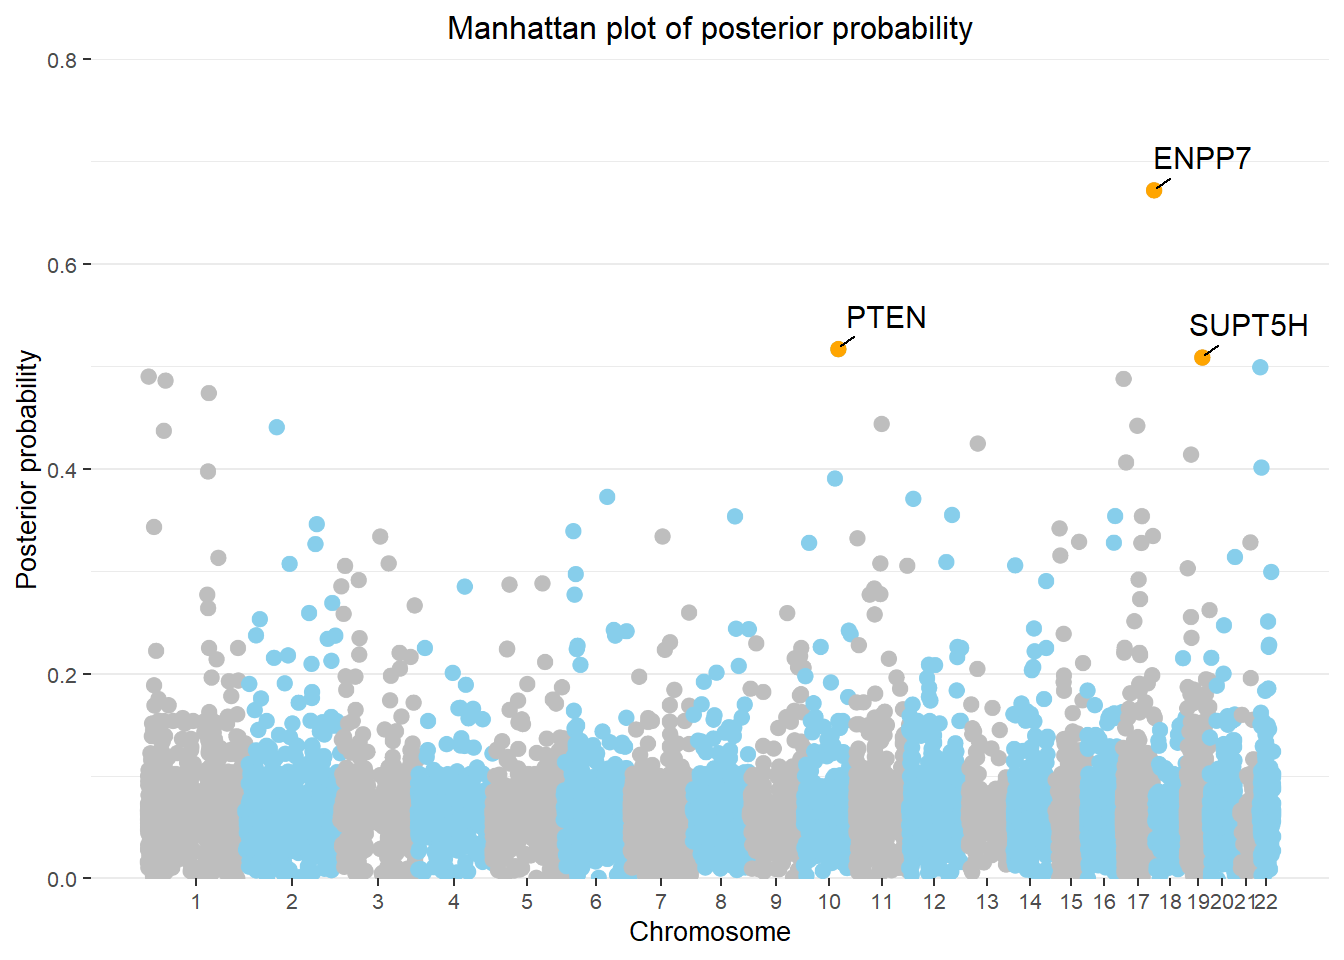
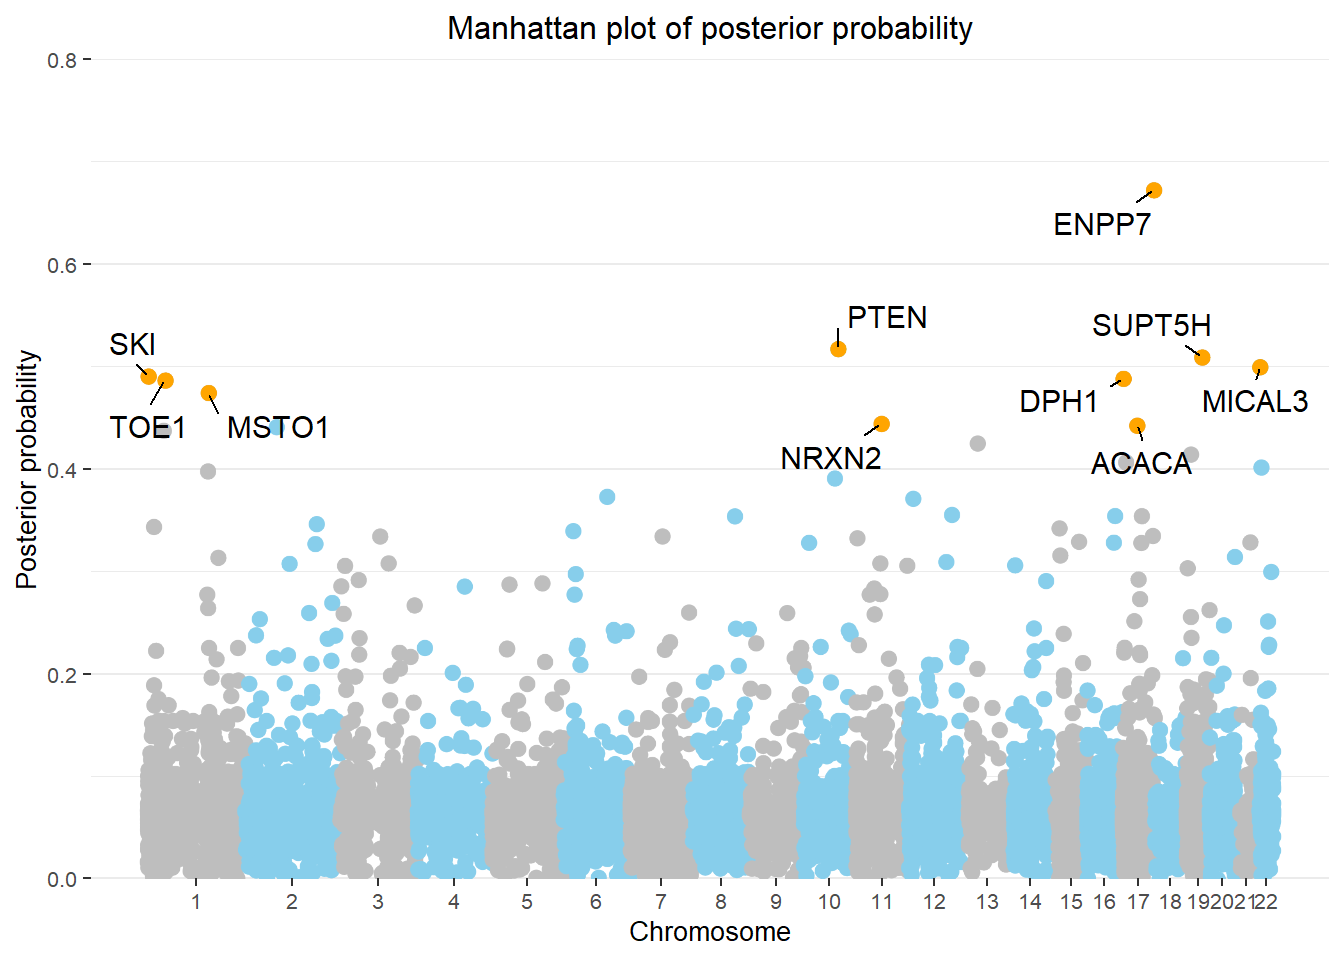
1/9/2023

diff --git a/docs/ASC_new_sample_6variant_groups.html b/docs/ASC_new_sample_6variant_groups.html
@@ -487,7 +487,7 @@ choose top 20 genes.</p></li>
 <div id="top-genes-with-evidence" class="section level3">
 <h3>Top genes with evidence</h3>
 <div class="datatables html-widget html-fill-item-overflow-hidden html-fill-item" id="htmlwidget-2514ce28ae593bde0f73" style="width:100%;height:auto;"></div>
-<script type="application/json" data-for="htmlwidget-2514ce28ae593bde0f73">{"x":{"filter":"none","vertical":false,"extensions":["Buttons"],"data":[["1","2","3","4","5","6","7","8","9","10"],["ENPP7","PTEN","SUPT5H","MICAL3","SKI","DPH1","TOE1","MSTO1","NRXN2","ACACA"],[28.5312,14.9069,14.4258,13.8889,13.3934,13.2728,13.1836,12.5556,11.1218,11.043],[0.6724,0.5174,0.5092,0.4997,0.4907,0.4884,0.4867,0.4745,0.4444,0.4427],["-","High; FMRP; AutismKB; SCZ","constraint gene; RVIS","Haploinsuff","ID gene; FMRP; SCZ","-","-","-","FMRP; AutismKB; constraint gene; RVIS; SCZ","constraint gene; RVIS; Haploinsuff"],[false,true,false,false,true,false,false,false,false,false],["zinc ion binding","regulate synaptic function","putative chromatin structure regulator","-","zinc ion binding","metal ion binding","protein binding","protein binding","metal ion binding; neuroligin family protein binding","protein binding"]],"container":"<table class=\"display\">\n  <thead>\n    <tr>\n      <th> <\/th>\n      <th>Gene<\/th>\n      <th>BF<\/th>\n      <th>posterior<\/th>\n      <th>Evidence<\/th>\n      <th>ASC_gene<\/th>\n      <th>Function<\/th>\n    <\/tr>\n  <\/thead>\n<\/table>","options":{"dom":"Blfrtip","buttons":["copy","csv","excel","pdf","print"],"lengthMenu":[[10,25,50,-1],["10","25","50","All"]],"columnDefs":[{"className":"dt-right","targets":[2,3]},{"orderable":false,"targets":0}],"order":[],"autoWidth":false,"orderClasses":false}},"evals":[],"jsHooks":[]}</script>
+<script type="application/json" data-for="htmlwidget-2514ce28ae593bde0f73">{"x":{"filter":"none","vertical":false,"extensions":["Buttons"],"data":[["1","2","3","4","5","6","7","8","9","10"],["ENPP7","PTEN","SUPT5H","MICAL3","SKI","DPH1","TOE1","MSTO1","NRXN2","ACACA"],[28.5312,14.9069,14.4258,13.8889,13.3934,13.2728,13.1836,12.5556,11.1218,11.043],["MPC&lt;1, missense (28.53)","Medium PLI, LoF (6.47); MPC&gt;=2 missense (2.64)","High PLI LoF (2.5); MPC&gt;=2 missense (3.45); 1&lt;=MPC&lt;2 missense (1.72)","High PLI LoF (6.73); 1&lt;=MPC&lt;2 missense (2.09)","Medium PLI LoF (1.59); 1&lt;=MPC&lt;2 missense (6.84)","MPC&lt;1 missense (13.27)","1&lt;=MPC&lt;2 missense (13.46)","MPC&gt;=2 missense (4.25); 1&lt;=MPC&lt;2 missense (2.95)","MPC&gt;=2 missense (2.6); 1&lt;=MPC&lt;=2 missense (11.13)","High PLI LoF (2.5); MPC&gt;=2 missense (4.52)"],[0.6724,0.5174,0.5092,0.4997,0.4907,0.4884,0.4867,0.4745,0.4444,0.4427],["-","High; FMRP; AutismKB; SCZ","constraint gene; RVIS","Haploinsuff","ID gene; FMRP; SCZ","-","-","-","FMRP; AutismKB; constraint gene; RVIS; SCZ","constraint gene; RVIS; Haploinsuff"],[false,true,false,false,true,false,false,false,false,false],["zinc ion binding","regulate synaptic function","putative chromatin structure regulator","-","zinc ion binding","metal ion binding","protein binding","protein binding","metal ion binding; neuroligin family protein binding","protein binding"]],"container":"<table class=\"display\">\n  <thead>\n    <tr>\n      <th> <\/th>\n      <th>Gene<\/th>\n      <th>BF<\/th>\n      <th>Supporting_Variants<\/th>\n      <th>posterior<\/th>\n      <th>Evidence<\/th>\n      <th>ASC_gene<\/th>\n      <th>Function<\/th>\n    <\/tr>\n  <\/thead>\n<\/table>","options":{"dom":"Blfrtip","buttons":["copy","csv","excel","pdf","print"],"lengthMenu":[[10,25,50,-1],["10","25","50","All"]],"columnDefs":[{"className":"dt-right","targets":[2,4]},{"orderable":false,"targets":0}],"order":[],"autoWidth":false,"orderClasses":false}},"evals":[],"jsHooks":[]}</script>
 <ul>
 <li><p>BF: this is filtered BF removing variant groups with negative
 burden and BF&gt;1.1, for those top 10 genes, their filter BF is their
@@ -495,11 +495,16 @@ actual BF without filtering</p></li>
 <li><p>ASC_gene: 185 ASC genes with FDR&lt;0.05, published in <a
 href="https://www.nature.com/articles/s41588-022-01104-0#MOESM3">NG
 2022</a></p></li>
+<li><p>Supporting_Variants: variant groups with BF&gt;1.5 are
+shown.</p></li>
 </ul>
 </div>
 <div id="gene-manhattan-plot" class="section level3">
 <h3>gene Manhattan plot</h3>
 <p><img src="ASC_new_sample_6variant_groups_files/figure-html/unnamed-chunk-33-1.png" width="672" /></p>
+</div>
+<div id="gene-examples" class="section level3">
+<h3>gene examples</h3>
 </div>
 </div>
 
